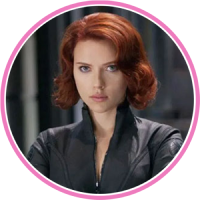
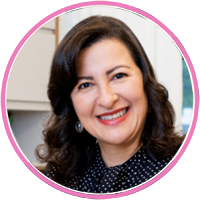
adding 3rd depo

diff --git a/components/Opinions/index.js b/components/Opinions/index.js
@@ -76,10 +76,11 @@ function Opinions() {
               <Image src={DepoThree} width={200} height={200} alt='Depoimento 3' />
             </div>
             <div className='opinion_card_txt'>
-              <h4>Scarlett Johansson</h4>
-              <p>Vestibulum ut urna pellentesque, gravida enim sed, ultrices neque. Aenean fermentum sodales nisl egestas tincidunt. Lorem ipsum dolor sit amet, consectetur adipiscing elit. Aenean tincidunt lacinia felis, dignissim luctus sapien dignissim sit amet. Vestibulum pharetra urna eget dolor dictum, ut ornare dolor gravida. Nulla tincidunt, libero eu aliquam consectetur, justo tellus luctus turpis, sit amet condimentum leo felis eu odio. Pellentesque laoreet nisi a sem lacinia, finibus blandit mauris feugiat.</p>
+              <h4>Daniele Soares</h4>
+              <p>O Rodrigo R. Rabbottini é daqueles professores essenciais para a vida de qualquer aluno e qualquer profissional. Tem uma didática excelente, uma habilidade para explicar e ensinar com objetividade e clareza, mas de forma profunda.<br/>
+              Ele tem compromisso com o aprendizado do aluno e está sempre disponível para nos auxiliar no que for preciso: tanto no âmbito técnico quanto profissional.</p>
               <div className='opinion_card_txt_bottom'>
-                <span>Consultoria</span>
+                <span>Aluna</span>
                 {/* <span>Marvel Studios</span> */}
               </div>
             </div>
